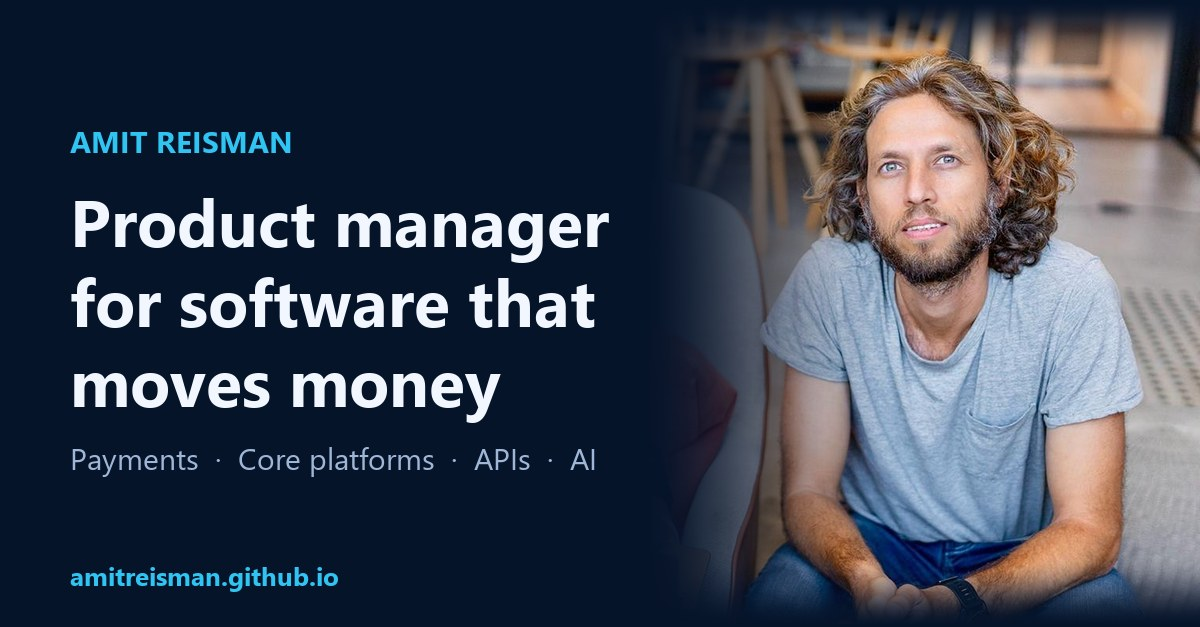
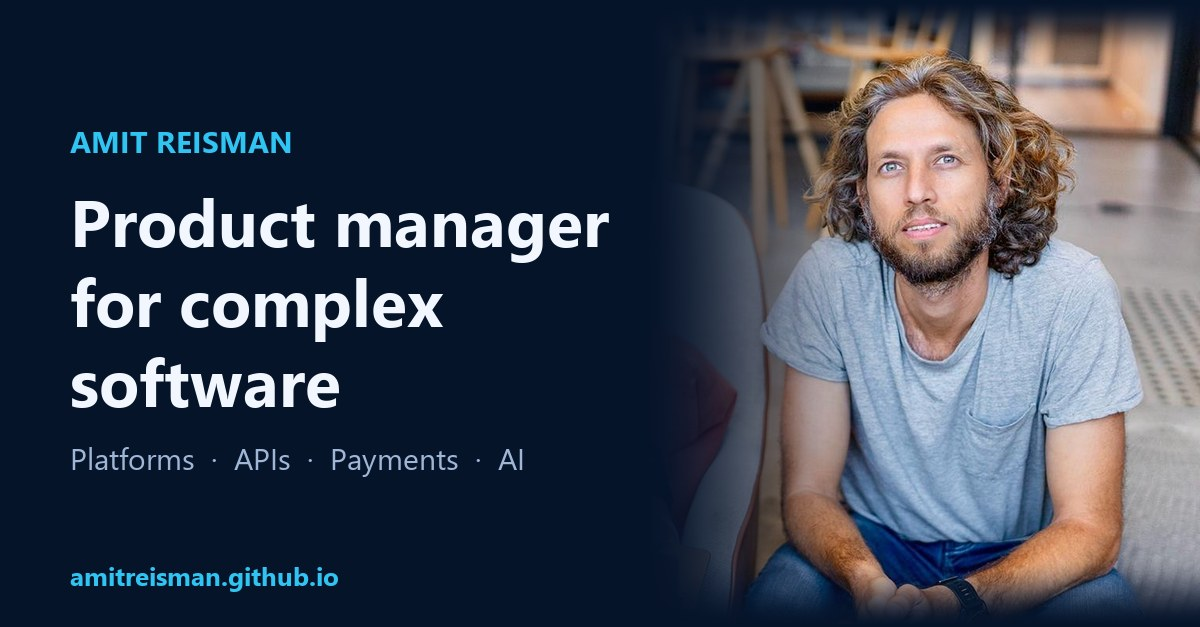
Broaden the headline beyond fintech and update the share image and meta tags

Changed region(s): [[0.0617, 0.5758, 0.4317, 0.6667], [0.1542, 0.4242, 0.4933, 0.5455], [0.0617, 0.697, 0.4933, 0.7576]]

diff --git a/index.html b/index.html
@@ -5,18 +5,18 @@
 <meta name="color-scheme" content="dark">
 <meta property="og:type" content="website">
 <meta property="og:site_name" content="Amit Reisman">
-<meta property="og:title" content="Amit Reisman | Product Manager, Payments &amp; Platforms">
-<meta property="og:description" content="Product manager for software that moves money: payments, core platforms and APIs, with hands-on AI. Experience, personal projects and live demos.">
+<meta property="og:title" content="Amit Reisman | Product Manager, Platforms &amp; Complex Systems">
+<meta property="og:description" content="Product manager for complex software: platforms, APIs and payments, with hands-on AI. Experience, personal projects and live demos.">
 <meta property="og:url" content="https://amitreisman.github.io/">
-<meta property="og:image" content="https://amitreisman.github.io/og.jpg">
+<meta property="og:image" content="https://amitreisman.github.io/og.jpg?v=2">
 <meta property="og:image:width" content="1200">
 <meta property="og:image:height" content="627">
-<meta property="og:image:alt" content="Amit Reisman, product manager for software that moves money">
+<meta property="og:image:alt" content="Amit Reisman, product manager for complex software">
 <meta name="twitter:card" content="summary_large_image">
-<meta name="twitter:image" content="https://amitreisman.github.io/og.jpg">
+<meta name="twitter:image" content="https://amitreisman.github.io/og.jpg?v=2">
 <meta name="viewport" content="width=device-width, initial-scale=1.0">
 <title>Amit Reisman | Senior Product Manager</title>
-<meta name="description" content="Amit Reisman, Senior Product Manager. Payments, fintech and platform products. Experience from Finastra, Discount Bank and Teva, plus two products built with AI: a job-search agent and a budgeting app.">
+<meta name="description" content="Amit Reisman, Senior Product Manager. Platforms, APIs and payments, with hands-on AI. Experience from Finastra, Discount Bank and Teva, plus two products built with AI.">
 <style>
   :root{
     --bg:#06142a;
@@ -374,7 +374,7 @@
 </style>
 </head>
 <body>
-<div class="statusbar">OPEN TO NEW OPPORTUNITIES · SENIOR PRODUCT MANAGER · PAYMENTS · PLATFORMS · AI</div>
+<div class="statusbar">OPEN TO NEW OPPORTUNITIES · SENIOR PRODUCT MANAGER · PLATFORMS · COMPLEX SYSTEMS · AI</div>
 
 <nav>
   <div class="wrap">
@@ -392,8 +392,8 @@
    <div class="hero-text">
     <span class="badge-pill"><span class="dot"></span> Open to new opportunities</span>
     <p class="hello">Hi, I'm Amit.</p>
-    <h1>Product manager for software that moves money, <span class="mark">from first launch to high-volume infrastructure.</span></h1>
-    <div class="role-line">Senior Product Manager · Payments &amp; Fintech · Platforms &amp; Infrastructure</div>
+    <h1>Product manager for complex software, <span class="mark">from first launch to high-volume infrastructure.</span></h1>
+    <div class="role-line">Senior Product Manager · Platforms &amp; Infrastructure · Payments · AI</div>
     <p class="intro">
       Seven years in product management across banking software and payments. I took a payment
       platform from discovery to its first paying customers, then owned product for the core platform
